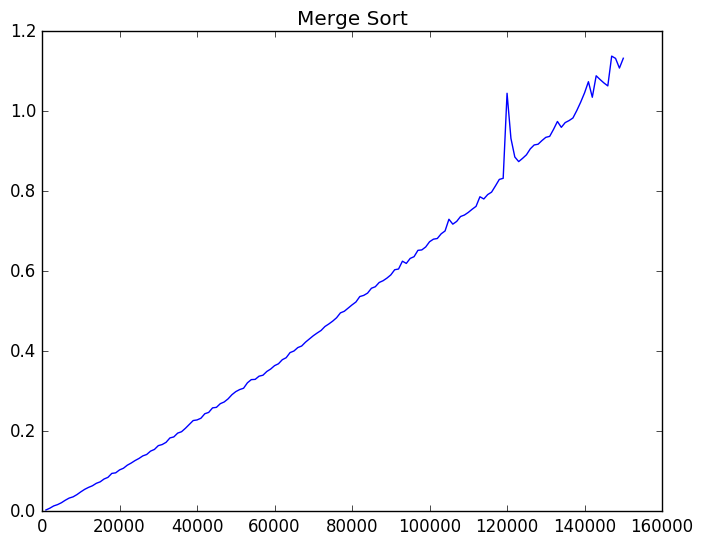
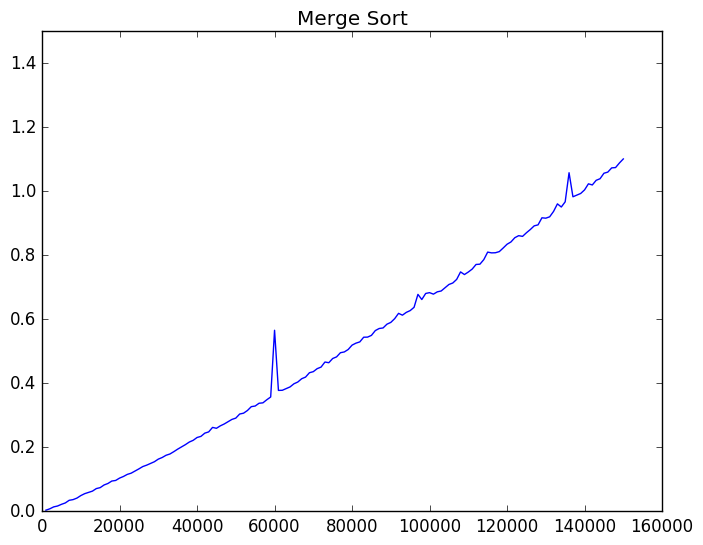
feat: Add insertion sort
Add random unsorted list utility function
Add new benchmark images

diff --git a/benchmarking.py b/benchmarking.py
@@ -1,8 +1,10 @@
 import matplotlib.pyplot as plt
 from merge_sort import merge_sort
+from insertion_sort import insertion_sort
 import random
 from tqdm import tqdm
 import time
+from utils import random_list
 
 
 def benchmarking(sort_func):
@@ -14,20 +16,25 @@ def benchmarking(sort_func):
 	#	n = 1000*(i+1)
 
 	tic = time.clock()
-	for i in tqdm(range(150)):
+	for i in tqdm(xrange(150)):
 		n = 1000*(i+1)
-		unsorted_list = [random.randint(0, n) for i in range(n)]
+		unsorted_list = random_list(n,n)
 		tic2 = time.clock()
 		sorted_list = sort_func(unsorted_list)
 		benchmark_times.append(time.clock()-tic2)
 		n_list.append(n)
-	print tic - time.clock()
+	print 'Passed time:', time.clock()-tic
 	return n_list, benchmark_times
 
-n_list, benchmark_times = benchmarking(merge_sort)
+
+n_list, benchmark_times = benchmarking(sorted)
 
 plt.figure()
-plt.title('Merge Sort')
+ax = plt.gca()
+ax.set_xlim([0,160000])
+ax.set_ylim([0,1.5])
+plt.title('Python Built-in Sort')
 plt.plot(n_list, benchmark_times)
-plt.savefig('./doc/merge_sort', bbox_inches='tight')
+plt.savefig('./doc/built_in_sort.png', bbox_inches='tight')
 plt.show()
+

diff --git a/insertion_sort.py b/insertion_sort.py
@@ -1,0 +1,36 @@
+from tqdm import tqdm
+from utils import test_sort, random_list
+
+def insertion_sort(unsorted):
+	'''
+	Worst case O(n^2)
+	Best case O(n)
+	'''
+	for i in xrange(len(unsorted)):
+		if i==0:
+			continue
+		a = unsorted[i]
+		for j in reversed(range(i)):
+
+			if a >= unsorted[j] and j==i-1:
+				break
+			elif a < unsorted[j] and j==0:
+				del unsorted[i]
+				unsorted.insert(j,a)
+				break
+			elif a < unsorted[j]:
+				continue
+			elif a >= unsorted[j]:
+				del unsorted[i]
+				unsorted.insert(j+1,a)
+				break
+		
+	return unsorted
+
+
+if __name__ == "__main__":
+	n = 10000
+	unsorted_list = random_list(n,1000)
+
+	sorted_list = insertion_sort(unsorted_list)
+	test_sort(sorted_list)

diff --git a/merge_sort.py b/merge_sort.py
@@ -1,9 +1,12 @@
-import random
 from tqdm import tqdm
-from utils import test_sort
+from utils import test_sort, random_list
 
 
 def merge_sort(unsorted):
+	'''
+	Basic sorting algorithm
+	Time complexity: n*log(n)
+	'''
 	n = len(unsorted)
 	if n <= 1:
 		return unsorted
@@ -31,7 +34,7 @@ def merge_sort(unsorted):
 
 if __name__ == "__main__":
 	n = 100000
-	unsorted_list = [random.randint(0, 1000) for i in range(n)]
+	unsorted_list = random_list(n,1000)
 
 	sorted_list = merge_sort(unsorted_list)
 	test_sort(sorted_list)

diff --git a/utils.py b/utils.py
@@ -1,3 +1,5 @@
+import random
+
 def test_sort(sorted_list):
 	prev = sorted_list[0]
 	for i in sorted_list:
@@ -8,3 +10,6 @@ def test_sort(sorted_list):
 			return False
 	print 'Sorting list successful'
 	return True
+
+def random_list(n, rng):
+	return [random.randint(0, rng) for i in range(n)]
